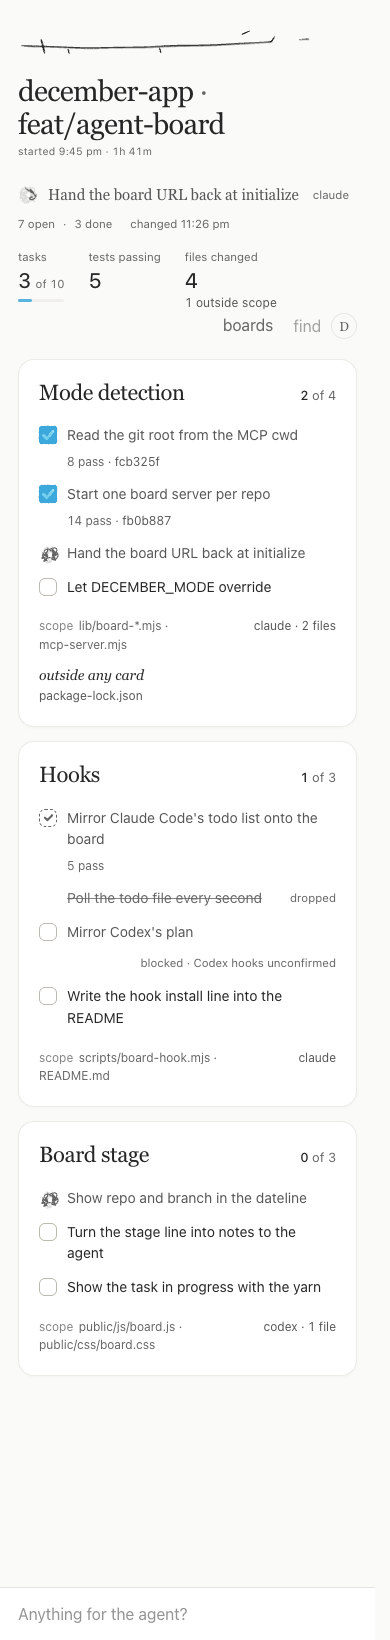
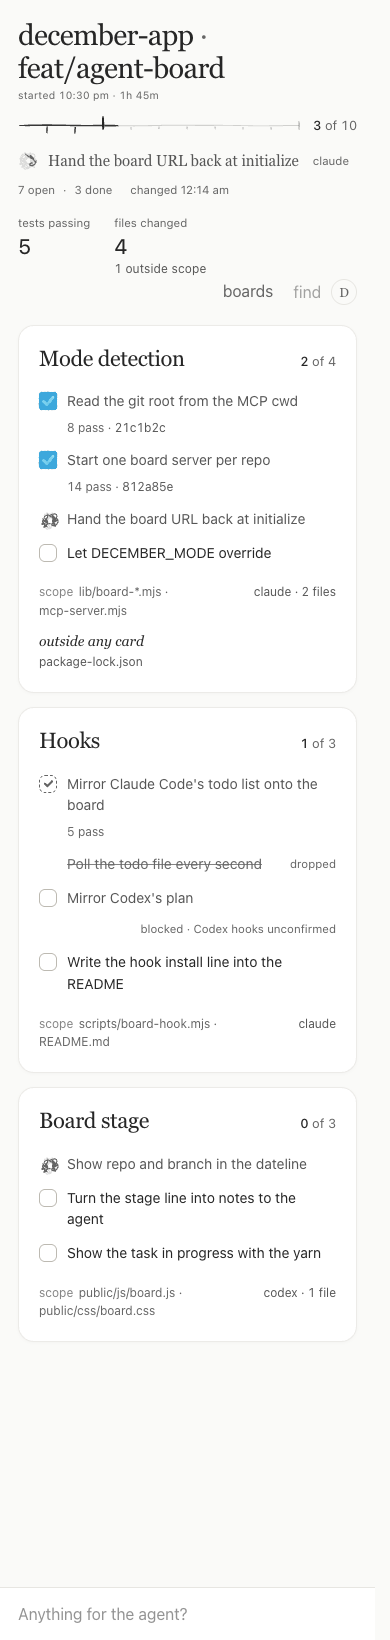
docs: the plan line, its GIF and 2x shot, re-captured board screenshots

diff --git a/docs/BOARD.md b/docs/BOARD.md
@@ -38,8 +38,8 @@ unchanged.
 The page's own reading tools stay (`december_view`, `december_ask`,
 `december_file_capture` and the rest); the person's tools (goals, About Me,
 suggestions) are not offered. Every board tool's result carries `unread` (the
-person's notes) and `drift` (stray paths), so the agent sees both without
-asking.
+person's notes), `drift` (stray paths) and `plan` (`done`, `total`, `inHand`,
+`next`), so the agent works from all three without asking.
 
 ### Proof
 
@@ -48,6 +48,19 @@ git before writing: the commit must exist in the repo, the file or screenshot
 must be in the work tree. Checked proof paints the tick. Anything else leaves a
 dashed tick, and the result says why. When the person ticks a task, that counts
 as proof too.
+
+### The plan line
+
+Under the dateline, one line stands for the plan: every task on the open cards,
+one stretch each, ending at the count. It is drawn firm through closed tasks in
+the order they closed, with a tick under each, light while its proof is
+unchecked. The rest is a faint track with a notch per task. The marker stands
+where progress has landed: red while the board waits on the person, with the pen
+just past it moving while an agent works. Point or arrow along the line to name
+the task in each stretch. Graphite grain only draws at 2x and up; below that the
+stroke stays clean.
+
+![The plan line building over a session](board/plan-building.gif)
 
 ### Sessions and editions
 
